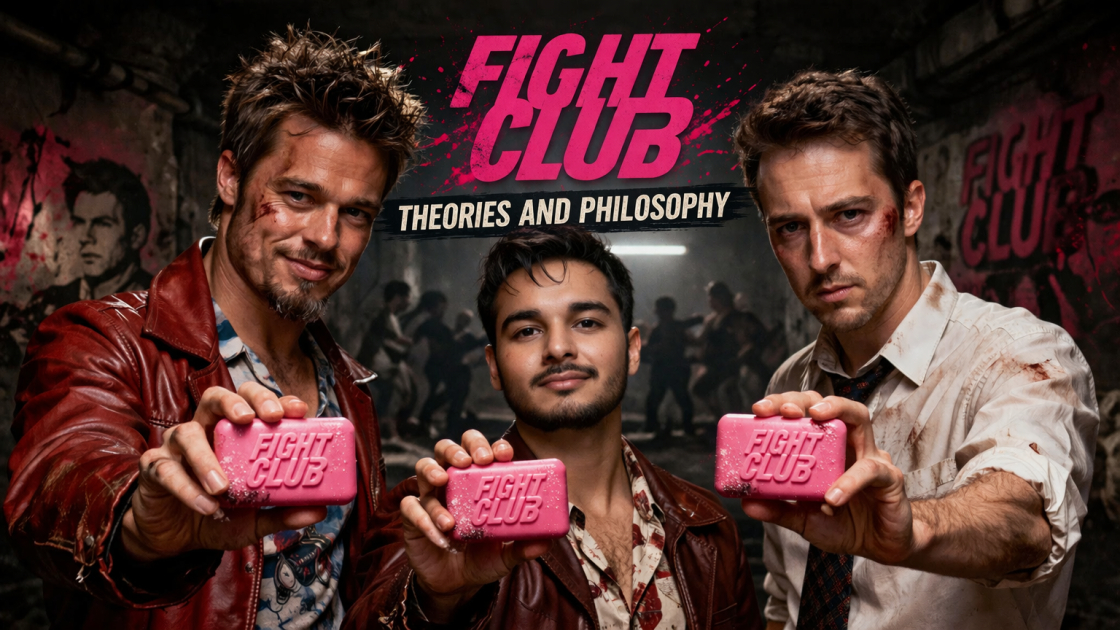
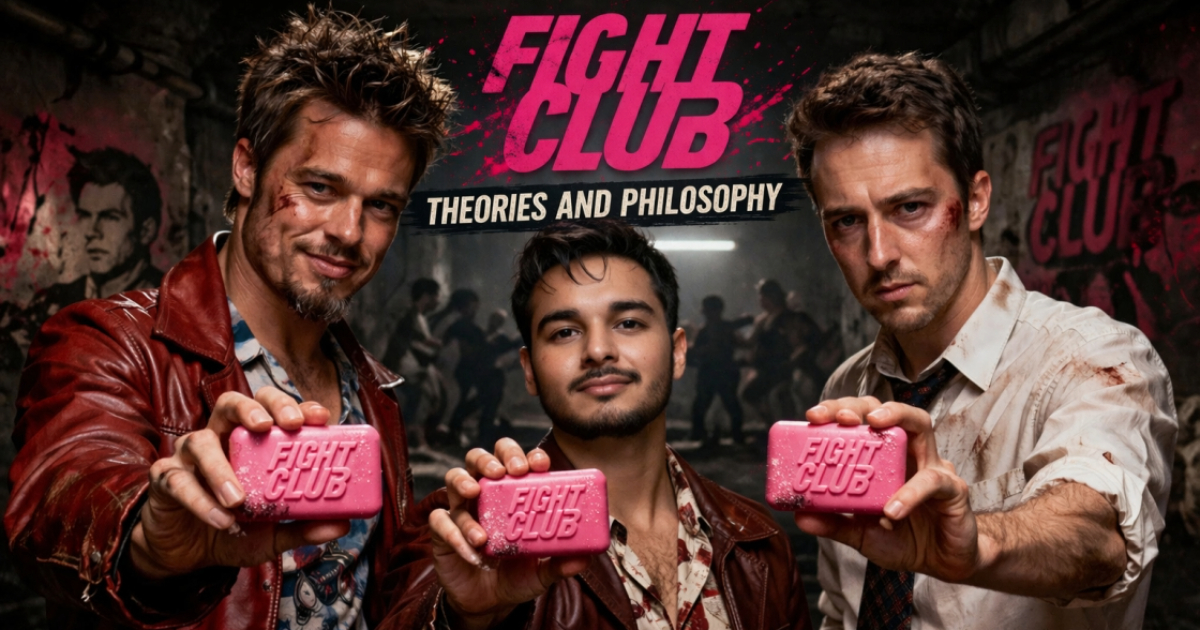
updated og image

diff --git a/index.html b/index.html
@@ -12,6 +12,8 @@
     <meta property="og:image" content="https://fightclub-flame.vercel.app/og-image.jpg">
     <meta property="og:type" content="website">
     <meta property="og:url" content="https://fightclub-flame.vercel.app/index.html">
+    <meta property="og:image:width" content="1200">
+<meta property="og:image:height" content="630">
 
     <meta name="twitter:card" content="summary_large_image">
 
